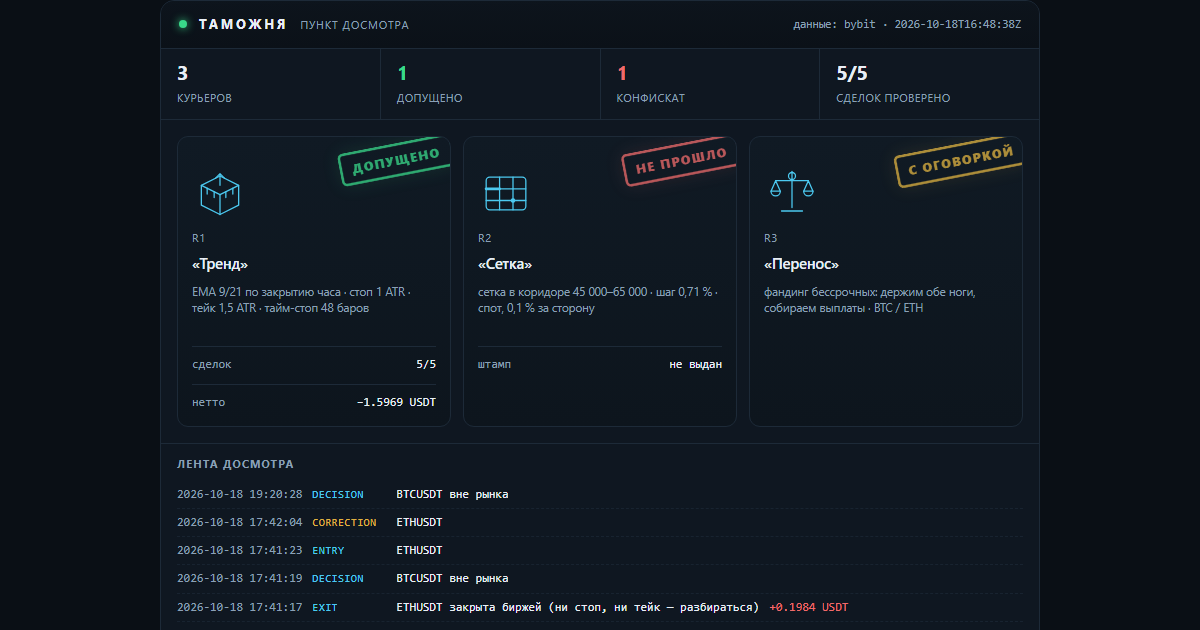
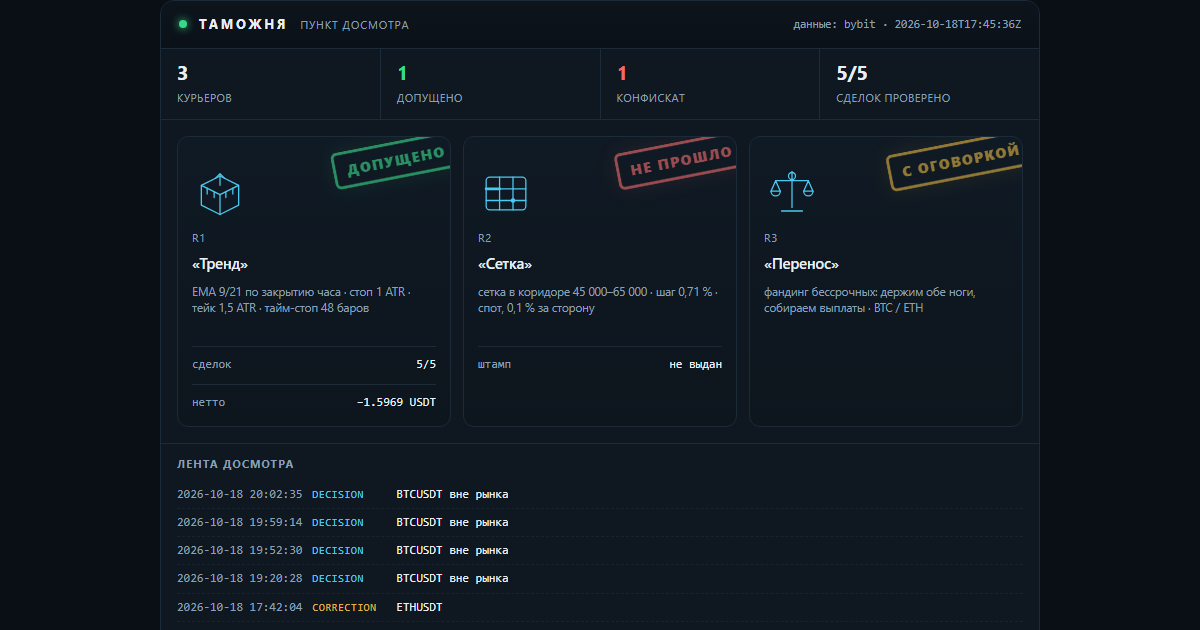
lab: таможня — свежие числа досмотра

diff --git a/docs/customs.html b/docs/customs.html
@@ -16,7 +16,7 @@
   <h1><a href="index.html">Gramwright Lab</a></h1>
   <p>Журнал проверки торговых гипотез: что проверяли, что вышло по факту, сколько съели издержки. Числа берутся из журнала стенда. Не инвестиционная рекомендация.</p>
 </header>
-<h1>Таможня</h1><p class="intro">Пункт досмотра заявленных результатов. Стратегии приезжают с грузом обещаний, и каждая проходит проверку по публичным данным биржи: цены существуют, комиссии по тарифу, нетто сходится. Что прошло — получает штамп. Что не прошло — в конфискат, с причиной. Штамп означает «записи подлинные», а не «стратегия прибыльна».</p><p><img src="img/customs.png" alt="Терминал досмотра: три курьера, штампы, лента событий" style="width:100%;height:auto;border:1px solid var(--line);border-radius:10px"></p><p class="c-note">Сверху — тот же терминал, что собирается из журналов: счётчики, эмблемы курьеров, штампы и лента последних событий. Ниже — то же самое текстом, чтобы читалось с телефона и индексировалось поиском.</p><article><h2>R1 «Тренд» <span class="verdict">— <span class="c-ok">допущено</span></span></h2><p><strong>Правило:</strong> EMA 9/21 по закрытию часа · стоп 1 ATR · тейк 1,5 ATR · тайм-стоп 48 баров</p><p><strong>Декларация:</strong> Заявлено до прогона: держать 30 сделок, лимит нотионала 10 % от счёта, стоп дня −1 %. Прибыль не заявлялась — это важно: курьер не обещал доход.</p><p><strong>Проверено по публичным свечам, без ключей:</strong> 5 из 5 сделок. Сумма нетто −1.5969 USDT.</p><ul class="c-chk"><li class="y">BTCUSDT: нетто −0.8746 USDT · комиссии 0.0901 · проверено · с поправкой</li><li class="y">BTCUSDT: нетто −0.5441 USDT · комиссии 0.0896 · проверено</li><li class="y">ETHUSDT: нетто −0.2253 USDT · комиссии 0.0266 · проверено</li><li class="y">ETHUSDT: нетто −0.1513 USDT · комиссии 0.0265 · проверено</li><li class="y">ETHUSDT: нетто +0.1984 USDT · комиссии 0.0262 · проверено</li></ul><p class="tags">журнал sha256 32a16ff1ce731617… · проверяльщик verify-1</p><p class="c-note">Штамп означает: записи подлинные, а не что стратегия прибыльна. Курьер в минусе, и минус тоже стоит на штампе — иначе это была бы не проверка, а реклама.</p><p class="tags">источник: verify-report.json</p></article><article><h2>R2 «Сетка» <span class="verdict">— <span class="c-bad">не прошло</span></span></h2><p><strong>Правило:</strong> сетка в коридоре 45 000–65 000 · шаг 0,71 % · спот, 0,1 % за сторону</p><p><strong>Декларация:</strong> Заявлено: «44 % урожая уходит бирже в виде комиссий». Кроме того — перевес над простым владением монетой.</p><p><strong>Что сошлось:</strong></p><ul class="c-chk"><li class="y">сами числа пересчитаны и воспроизводятся: коридор 45–65k был активен 23 % всей истории и 28 % последних двух лет</li></ul><p><strong>Что не сошлось:</strong></p><ul class="c-chk"><li class="n">44 % не подтвердилось: при шаге 0,71 % и тарифе 0,1 % комиссия съедает 28,3 % шага. Чтобы получить 44 %, нужен шаг 0,45 % — это около 80 уровней, а не 50</li><li class="n">от урожая доля комиссий 85,5 % за всю историю и 49,6 % за последние два года — тоже не 44 %</li><li class="n">перевес над владением посчитан на тарифе 0,055 %: при нём +1,32 п. п., на розничном 0,1 % — −0,72 п. п. То есть перевес исчезает</li><li class="n">семилетний тест стартовал в сентябре 2019 при биткоине около 10 000 — ниже коридора. Он говорит, что фиксированный коридор не подходит для периода, а не что сетка отстаёт</li></ul><p class="tags">источник: lab_grid.py, пересчёт 17.10.2026</p></article><article><h2>R3 «Перенос» <span class="verdict">— <span class="c-warn">с оговоркой</span></span></h2><p><strong>Правило:</strong> фандинг бессрочных: держим обе ноги, собираем выплаты · BTC / ETH</p><p><strong>Декларация:</strong> Заявлено: около 11,9 % в год от выплат фандинга при просадке выплатной кривой меньше 2 %.</p><p><strong>Что сошлось:</strong></p><ul class="c-chk"><li class="y">выплаты взяты из публичной истории биржи, ключей не нужно: BTC — 7 190 выплат с 25.03.2020, ETH — 6 561 с 21.10.2020</li><li class="y">сумма сходится: +83,4 % и +83,2 % за 6,6 и 6,0 года — те самые ~11,9 % в год</li><li class="y">худшая просадка выплатной кривой: −1,65 % и −1,97 %</li></ul><p><strong>Что не сошлось:</strong></p><ul class="c-chk"><li class="n">оговорка 1: премию сжали — 2021 год дал +38,3 %, 2026 — +1,96 %. Прошлое не повторяется</li><li class="n">оговорка 2: вход-выход стоит около 0,31 %, капитала нужно 1,2 от нотионала, текущий базис −0,082 % против входа</li><li class="n">оговорка 3: риск площадки. История FTX в этой же таблице выглядела так же прилично</li></ul><p class="tags">источник: публичная история фандинга Bybit, замер 17.10.2026</p></article><div class="c-conf"><h3>Конфискат</h3><p><strong>«Сетка»: заявленные 44 % комиссий не подтвердились.</strong> Досмотр показал 28,3 % от шага и 85,5 % от урожая — цифра хуже заявленной по форме, но лучше по смыслу: сетку убивает не размер шага, а то, что урожай почти весь уходит в комиссии. Это и вышло в выпуск — с поправкой, а не с красивой цифрой.</p></div><p class="c-note">Пломба: <code>2026-10-18T16:48:38Z</code> · нотариус FreeTSA · Oct 18 16:48:38 2026 GMT · подпись подтверждена. Манифест скрепляет отчёт проверки, журнал сделок и декларации курьеров: подменишь любую цифру — пломба перестанет сходиться.</p><p class="c-note">Досмотр идёт по публичным минутным свечам и публичной истории фандинга — ключей у проверяющего нет, и он может повторить проверку сам.</p><p class="c-note">Контент образовательный, не является инвестиционной рекомендацией. Торговля связана с риском потери капитала.</p>
+<h1>Таможня</h1><p class="intro">Пункт досмотра заявленных результатов. Стратегии приезжают с грузом обещаний, и каждая проходит проверку по публичным данным биржи: цены существуют, комиссии по тарифу, нетто сходится. Что прошло — получает штамп. Что не прошло — в конфискат, с причиной. Штамп означает «записи подлинные», а не «стратегия прибыльна».</p><p><img src="img/customs.png" alt="Терминал досмотра: три курьера, штампы, лента событий" style="width:100%;height:auto;border:1px solid var(--line);border-radius:10px"></p><p class="c-note">Сверху — тот же терминал, что собирается из журналов: счётчики, эмблемы курьеров, штампы и лента последних событий. Ниже — то же самое текстом, чтобы читалось с телефона и индексировалось поиском.</p><article><h2>R1 «Тренд» <span class="verdict">— <span class="c-ok">допущено</span></span></h2><p><strong>Правило:</strong> EMA 9/21 по закрытию часа · стоп 1 ATR · тейк 1,5 ATR · тайм-стоп 48 баров</p><p><strong>Декларация:</strong> Заявлено до прогона: держать 30 сделок, лимит нотионала 10 % от счёта, стоп дня −1 %. Прибыль не заявлялась — это важно: курьер не обещал доход.</p><p><strong>Проверено по публичным свечам, без ключей:</strong> 5 из 5 сделок. Сумма нетто −1.5969 USDT.</p><ul class="c-chk"><li class="y">BTCUSDT: нетто −0.8746 USDT · комиссии 0.0901 · проверено · с поправкой</li><li class="y">BTCUSDT: нетто −0.5441 USDT · комиссии 0.0896 · проверено</li><li class="y">ETHUSDT: нетто −0.2253 USDT · комиссии 0.0266 · проверено</li><li class="y">ETHUSDT: нетто −0.1513 USDT · комиссии 0.0265 · проверено</li><li class="y">ETHUSDT: нетто +0.1984 USDT · комиссии 0.0262 · проверено</li></ul><p class="tags">журнал sha256 04dbbc5a8cad5295… · проверяльщик verify-1</p><p class="c-note">Штамп означает: записи подлинные, а не что стратегия прибыльна. Курьер в минусе, и минус тоже стоит на штампе — иначе это была бы не проверка, а реклама.</p><p class="tags">источник: verify-report.json</p></article><article><h2>R2 «Сетка» <span class="verdict">— <span class="c-bad">не прошло</span></span></h2><p><strong>Правило:</strong> сетка в коридоре 45 000–65 000 · шаг 0,71 % · спот, 0,1 % за сторону</p><p><strong>Декларация:</strong> Заявлено: «44 % урожая уходит бирже в виде комиссий». Кроме того — перевес над простым владением монетой.</p><p><strong>Что сошлось:</strong></p><ul class="c-chk"><li class="y">сами числа пересчитаны и воспроизводятся: коридор 45–65k был активен 23 % всей истории и 28 % последних двух лет</li></ul><p><strong>Что не сошлось:</strong></p><ul class="c-chk"><li class="n">44 % не подтвердилось: при шаге 0,71 % и тарифе 0,1 % комиссия съедает 28,3 % шага. Чтобы получить 44 %, нужен шаг 0,45 % — это около 80 уровней, а не 50</li><li class="n">от урожая доля комиссий 85,5 % за всю историю и 49,6 % за последние два года — тоже не 44 %</li><li class="n">перевес над владением посчитан на тарифе 0,055 %: при нём +1,32 п. п., на розничном 0,1 % — −0,72 п. п. То есть перевес исчезает</li><li class="n">семилетний тест стартовал в сентябре 2019 при биткоине около 10 000 — ниже коридора. Он говорит, что фиксированный коридор не подходит для периода, а не что сетка отстаёт</li></ul><p class="tags">источник: lab_grid.py, пересчёт 17.10.2026</p></article><article><h2>R3 «Перенос» <span class="verdict">— <span class="c-warn">с оговоркой</span></span></h2><p><strong>Правило:</strong> фандинг бессрочных: держим обе ноги, собираем выплаты · BTC / ETH</p><p><strong>Декларация:</strong> Заявлено: около 11,9 % в год от выплат фандинга при просадке выплатной кривой меньше 2 %.</p><p><strong>Что сошлось:</strong></p><ul class="c-chk"><li class="y">выплаты взяты из публичной истории биржи, ключей не нужно: BTC — 7 190 выплат с 25.03.2020, ETH — 6 561 с 21.10.2020</li><li class="y">сумма сходится: +83,4 % и +83,2 % за 6,6 и 6,0 года — те самые ~11,9 % в год</li><li class="y">худшая просадка выплатной кривой: −1,65 % и −1,97 %</li></ul><p><strong>Что не сошлось:</strong></p><ul class="c-chk"><li class="n">оговорка 1: премию сжали — 2021 год дал +38,3 %, 2026 — +1,96 %. Прошлое не повторяется</li><li class="n">оговорка 2: вход-выход стоит около 0,31 %, капитала нужно 1,2 от нотионала, текущий базис −0,082 % против входа</li><li class="n">оговорка 3: риск площадки. История FTX в этой же таблице выглядела так же прилично</li></ul><p class="tags">источник: публичная история фандинга Bybit, замер 17.10.2026</p></article><div class="c-conf"><h3>Конфискат</h3><p><strong>«Сетка»: заявленные 44 % комиссий не подтвердились.</strong> Досмотр показал 28,3 % от шага и 85,5 % от урожая — цифра хуже заявленной по форме, но лучше по смыслу: сетку убивает не размер шага, а то, что урожай почти весь уходит в комиссии. Это и вышло в выпуск — с поправкой, а не с красивой цифрой.</p></div><p class="c-note">Пломба: <code>2026-10-18T17:45:36Z</code> · нотариус FreeTSA · Oct 18 17:45:36 2026 GMT · подпись подтверждена. Манифест скрепляет отчёт проверки, журнал сделок и декларации курьеров: подменишь любую цифру — пломба перестанет сходиться.</p><p class="c-note">Досмотр идёт по публичным минутным свечам и публичной истории фандинга — ключей у проверяющего нет, и он может повторить проверку сам.</p><p class="c-note">Контент образовательный, не является инвестиционной рекомендацией. Торговля связана с риском потери капитала.</p>
 <footer class="site">
   Код стенда и аудитора: <a href="https://github.com/XSlaidx/truth-engine">XSlaidx/truth-engine</a>
   &middot; <a href="graveyard.html">кладбище правил</a>
